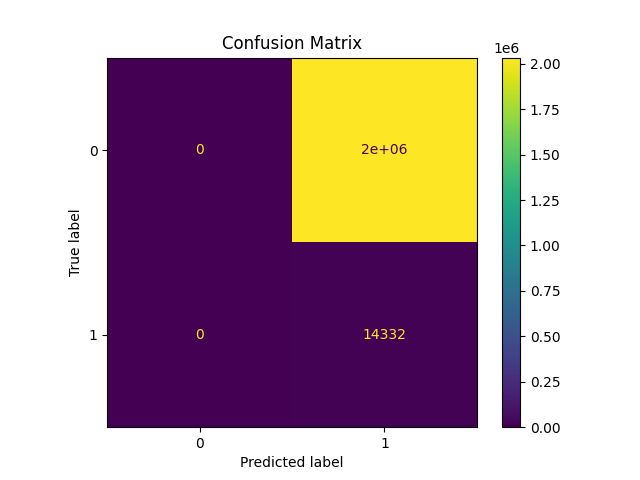
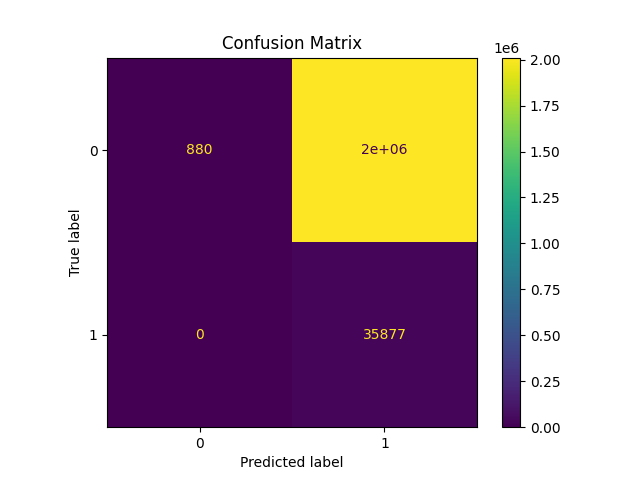
result analysis and visualization scripts added

diff --git a/fireNet/train.py b/fireNet/train.py
@@ -21,6 +21,8 @@ from sklearn.metrics import (
     ConfusionMatrixDisplay,
 )
 
+from skimage.segmentation import find_boundaries
+
 # Set up logging
 logging.basicConfig(level=logging.INFO, format='%(levelname)s: %(message)s')
 
@@ -167,7 +169,7 @@ def train_next_day_fire(
                     )
 
         # Save checkpoint
-        if save_checkpoint and epoch % 10 == 0:
+        if save_checkpoint:
             Path(dir_checkpoint).mkdir(parents=True, exist_ok=True)
             torch.save(
                 {
@@ -350,3 +352,99 @@ def result_analysis(
         f.write(f'AUC: {auc:.4f}\n')
 
     print(f'Results and figures saved in {save_dir}')
+
+
+
+def visualize_fire_spread(
+    model,
+    test_loader,
+    device,
+    checkpoint_path,
+    save_dir='visualizations',
+    num_pairs=3,
+    cmap='gray',
+):
+    """
+    Visualize Today's image, Next Day's prediction, and Fire Spread in a single figure.
+
+    Args:
+        model: The trained model.
+        test_loader: DataLoader for the test dataset.
+        device: Device to use for evaluation.
+        checkpoint_path: Path to the checkpoint file.
+        save_dir: Directory to save visualizations.
+        num_pairs: Number of image pairs to visualize.
+    """
+    # Create save directory
+    os.makedirs(save_dir, exist_ok=True)
+
+    # Load the checkpoint
+    checkpoint = torch.load(checkpoint_path, map_location=device)
+    model.load_state_dict(checkpoint['model_state_dict'])
+    model.to(device)
+    model.eval()
+
+    # Select the most useful image pairs
+    useful_pairs = []
+    with torch.no_grad():
+        for images, masks in test_loader:
+            images = images.to(device=device, dtype=torch.float32)
+            masks = masks.to(device=device, dtype=torch.float32)
+
+            # Forward pass
+            outputs = model(images)
+            #print(f'max and min of outputs: {torch.max(outputs)}, {torch.min(outputs)}')
+            preds = torch.sigmoid(outputs) > 0.5  # Binary predictions
+            #print(f'max and min of preds: {torch.max(preds)}, {torch.min(preds)}')
+            # Convert masks to boolean for bitwise operations
+            masks_bool = masks.cpu().numpy() > 0.5  # Threshold to convert to boolean
+            preds_bool = preds.cpu().numpy() > 0.5  # Ensure preds are boolean
+            print(f' total number of pred fire pixels: {np.sum(preds_bool)}')
+
+            # Compute Fire Spread (new fire regions)
+            fire_spread = preds_bool & ~masks_bool  # Use boolean arrays
+
+            # Store the most useful pairs
+            for i in range(len(images)):
+                if np.sum(fire_spread[i]) > 0:  # Only select pairs with new fire pixels
+                    useful_pairs.append({
+                        'today': masks[i].cpu().numpy()[0],  # Today's fire mask
+                        'next_day': preds[i].cpu().numpy()[0],  # Next Day's prediction
+                        'fire_spread': fire_spread[i][0],  # Fire Spread (new fire pixels)
+                    })
+                    if len(useful_pairs) >= num_pairs:
+                        break
+            if len(useful_pairs) >= num_pairs:
+                break
+
+    # Create a single figure with 3 rows and 3 columns
+    fig, axes = plt.subplots(num_pairs, 3, figsize=(15, 5 * num_pairs))
+
+    # Plot each pair
+    for i, pair in enumerate(useful_pairs):
+        # Today's Fire Mask
+        axes[i, 0].imshow(pair['today'], cmap=cmap, vmin=0, vmax=1)
+        axes[i, 0].set_title("Today's Fire Mask")
+        axes[i, 0].axis('off')
+
+        # Next Day's Prediction
+        axes[i, 1].imshow(pair['next_day'], cmap=cmap, vmin=0, vmax=1)
+        axes[i, 1].set_title("Next Day's Prediction")
+        axes[i, 1].axis('off')
+
+        # Fire Spread (Highlight new fire pixels with red boundary)
+        if np.sum(pair['fire_spread']) > 0:  # Only highlight if there are new fire pixels
+            fire_spread_boundary = find_boundaries(pair['fire_spread'], mode='inner')
+            axes[i, 2].imshow(pair['next_day'], cmap=cmap, vmin=0, vmax=1)  # Base image
+            axes[i, 2].contour(fire_spread_boundary, colors='red', linewidths=1)  # Red boundary
+        else:
+            axes[i, 2].imshow(pair['next_day'], cmap=cmap, vmin=0, vmax=1)  # Base image
+        axes[i, 2].set_title("Fire Spread (Highlighted)")
+        axes[i, 2].axis('off')
+
+    # Save the figure
+    plt.tight_layout()
+    plt.savefig(os.path.join(save_dir, 'fire_spread_comparison.png'), bbox_inches='tight', dpi=300)
+    plt.close()
+
+    print(f'Visualization saved in {save_dir}')

diff --git a/fireNet/resnet.py b/fireNet/resnet.py
@@ -1,0 +1,75 @@
+import torch
+import torch.nn as nn
+import torch.nn.functional as F
+
+class ResNetBlock(nn.Module):
+    """Basic ResNet block with two convolutional layers and a skip connection."""
+    def __init__(self, in_channels, out_channels, stride=1):
+        super(ResNetBlock, self).__init__()
+        self.conv1 = nn.Conv2d(in_channels, out_channels, kernel_size=3, stride=stride, padding=1, bias=False)
+        self.bn1 = nn.BatchNorm2d(out_channels)
+        self.conv2 = nn.Conv2d(out_channels, out_channels, kernel_size=3, stride=1, padding=1, bias=False)
+        self.bn2 = nn.BatchNorm2d(out_channels)
+
+        self.shortcut = nn.Sequential()
+        if stride != 1 or in_channels != out_channels:
+            self.shortcut = nn.Sequential(
+                nn.Conv2d(in_channels, out_channels, kernel_size=1, stride=stride, bias=False),
+                nn.BatchNorm2d(out_channels)
+            )
+
+    def forward(self, x):
+        out = F.relu(self.bn1(self.conv1(x)))
+        out = self.bn2(self.conv2(out))
+        out += self.shortcut(x)  # Skip connection
+        out = F.relu(out)
+        return out
+
+
+class ResNetUNet(nn.Module):
+    """Lightweight ResNet-based UNet for fire mask prediction."""
+    def __init__(self, in_channels=3, num_classes=1):
+        super(ResNetUNet, self).__init__()
+        self.in_channels = in_channels
+        self.num_classes = num_classes
+
+        # Encoder (ResNet blocks)
+        self.encoder1 = ResNetBlock(in_channels, 64)
+        self.encoder2 = ResNetBlock(64, 128, stride=2)
+        self.encoder3 = ResNetBlock(128, 256, stride=2)
+        self.encoder4 = ResNetBlock(256, 512, stride=2)
+
+        # Decoder (Up-convolution and ResNet blocks)
+        self.upconv3 = nn.ConvTranspose2d(512, 256, kernel_size=2, stride=2)
+        self.decoder3 = ResNetBlock(512, 256)
+        self.upconv2 = nn.ConvTranspose2d(256, 128, kernel_size=2, stride=2)
+        self.decoder2 = ResNetBlock(256, 128)
+        self.upconv1 = nn.ConvTranspose2d(128, 64, kernel_size=2, stride=2)
+        self.decoder1 = ResNetBlock(128, 64)
+
+        # Final output layer
+        self.final_conv = nn.Conv2d(64, num_classes, kernel_size=1)
+
+    def forward(self, x):
+        # Encoder
+        e1 = self.encoder1(x)  # Output: [B, 64, H, W]
+        e2 = self.encoder2(e1)  # Output: [B, 128, H/2, W/2]
+        e3 = self.encoder3(e2)  # Output: [B, 256, H/4, W/4]
+        e4 = self.encoder4(e3)  # Output: [B, 512, H/8, W/8]
+
+        # Decoder with skip connections
+        d3 = self.upconv3(e4)  # Output: [B, 256, H/4, W/4]
+        d3 = torch.cat([d3, e3], dim=1)  # Skip connection
+        d3 = self.decoder3(d3)  # Output: [B, 256, H/4, W/4]
+
+        d2 = self.upconv2(d3)  # Output: [B, 128, H/2, W/2]
+        d2 = torch.cat([d2, e2], dim=1)  # Skip connection
+        d2 = self.decoder2(d2)  # Output: [B, 128, H/2, W/2]
+
+        d1 = self.upconv1(d2)  # Output: [B, 64, H, W]
+        d1 = torch.cat([d1, e1], dim=1)  # Skip connection
+        d1 = self.decoder1(d1)  # Output: [B, 64, H, W]
+
+        # Final output
+        out = self.final_conv(d1)  # Output: [B, num_classes, H, W]
+        return torch.sigmoid(out)  # Use sigmoid for binary mask prediction

diff --git a/fireNet/main.py b/fireNet/main.py
@@ -17,7 +17,7 @@ parser = ArgumentParser()
 parser.add_argument('--seed', type=int, default=42)
 parser.add_argument('--dir_checkpoint', type=str, default='./checkpoints/')
 parser.add_argument('--epochs', type=int, default=10)
-parser.add_argument('--batch_size', type=int, default=4)
+parser.add_argument('--batch_size', type=int, default=128)
 args = parser.parse_args()
 
 # Seed everything for reproducibility
@@ -41,7 +41,7 @@ os.makedirs(dir_checkpoint, exist_ok=True)
 try:
     # Find the last modified checkpoint in the directory
     last_checkpoint = sorted(
-        [f for f in os.listdir(dir_checkpoint) if f.startswith('checkpoint')],
+        [f for f in os.listdir(dir_checkpoint) if f.find('checkpoint')],
         key=lambda f: os.path.getmtime(os.path.join(dir_checkpoint, f)),
         reverse=True,
     )[0]
@@ -51,13 +51,12 @@ except IndexError:
     print('No checkpoints found')
     load_model = None
 
-starting_epoch = 0
+starting_epoch = 37
 epochs = args.epochs
 batch_size = args.batch_size
-lr = 0.0001
+lr = 0.01
 scale = 0.5
 val_percent = 20
-amp = True
 pos_weight = 3.0
 
 # Datasets
@@ -91,8 +90,9 @@ logging.info(
 
 # Load model checkpoint if available
 if load_model:
-    state_dict, optimizer_state_dict, _, _, _ = load_checkpoint(load_model)
-    model.load_state_dict(state_dict)
+
+    cehckpoint = load_checkpoint(load_model,model=model,device=device)
+    #model.load_state_dict(state_dict)
     logging.info(f'Model loaded from {load_model}')
     logging.info(f'Starting from Epoch {starting_epoch}')
 
@@ -107,6 +107,7 @@ train_next_day_fire(
     model=model,
     epochs=epochs,
     dir_checkpoint=dir_checkpoint,
+    save_checkpoint=True,
     batch_size=batch_size,
     learning_rate=lr,
     device=device,
@@ -114,4 +115,7 @@ train_next_day_fire(
     val_percent=val_percent / 100,
     pos_weight=pos_weight,
     limit_features=limit_features,
+    max_train_samples = 10000,
+    max_val_samples= 50
 )
+

diff --git a/fireNet/evaluate.py b/fireNet/evaluate.py
@@ -1,7 +1,7 @@
 import os
 os.environ['TF_CPP_MIN_LOG_LEVEL'] = '3'  # Suppress all TensorFlow logs
 import torch
-from train import result_analysis
+from train import result_analysis,visualize_fire_spread
 from dataset import NextDayFireDataset
 import tensorflow as tf
 from torch.utils.data import DataLoader
@@ -11,7 +11,7 @@ from model.resnet import ResNetUNet
 device = torch.device('cuda' if torch.cuda.is_available() else 'cpu')
 
 # Load the test dataset
-test_data_file_pattern = '/s/lovelace/h/nobackup/sangmi/hackathon/AAAI-2025/data/northamerica_2012-2023/test/_ongoing_*.tfrecord'
+test_data_file_pattern = '/s/lovelace/h/nobackup/sangmi/hackathon/AAAI-2025/data/northamerica_2012-2023/val/_ongoing_*.tfrecord'
 test_data_file_names = tf.io.gfile.glob(test_data_file_pattern)
 test_data = tf.data.TFRecordDataset(test_data_file_names)
 
@@ -26,14 +26,14 @@ test_set = NextDayFireDataset(
 test_loader = DataLoader(
     test_set,
     shuffle=False,
-    batch_size=16,
+    batch_size=1,
 )
 
 # Initialize the model
 model = ResNetUNet(in_channels=6, num_classes=1)
 
 # Path to the checkpoint
-checkpoint_path = './checkpoints/ResNetUNet_checkpoint_epoch10.pth'  # Replace with the correct path
+checkpoint_path = './checkpoints/ResNetUNet_checkpoint_epoch8.pth'  # Replace with the correct path
 
 # Perform result analysis
 result_analysis(
@@ -42,5 +42,14 @@ result_analysis(
     device=device,
     checkpoint_path=checkpoint_path,
     save_dir='results',
-    epoch=10,  # Replace with the epoch number you want to analyze
+    epoch=8,  # Replace with the epoch number you want to analyze
+)
+# Perform visualization
+visualize_fire_spread(
+    model=model,
+    test_loader=test_loader,
+    device=device,
+    checkpoint_path=checkpoint_path,
+    save_dir='visualizations',
+    num_pairs=3,  # Number of image pairs to visualize
 )
